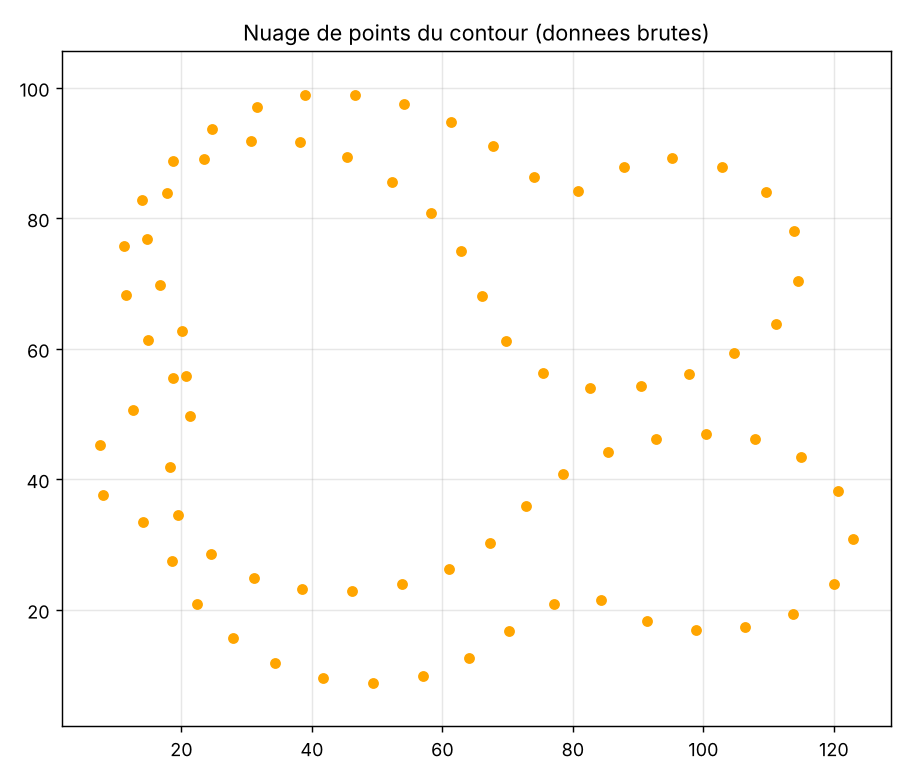
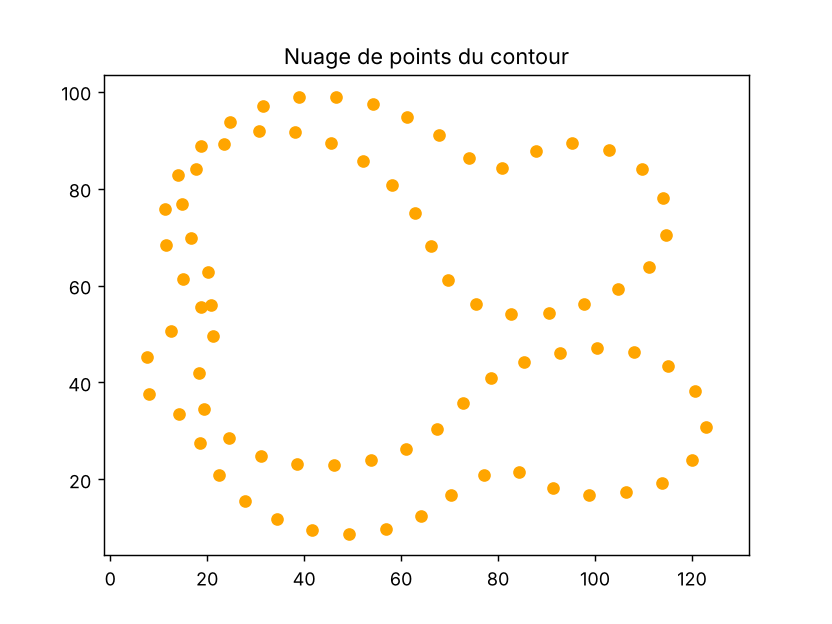
Simplification du code

diff --git a/bspline.py b/bspline.py
@@ -1,225 +1,66 @@
 """
-TP - Reconstruction d'un contour par B-spline
-=============================================
+TP - Reconstruction d'un contour par B-spline (fait main, sans librairie B-spline)
 
-Objectif : a partir d'un ensemble de points (le contour d'une piece),
-construire "a la main" une courbe B-spline, SANS utiliser de fonction
-magique type scipy.interpolate.BSpline.
-
-Tout repose sur UNE seule formule (la recursion de Cox - de Boor) qui
-definit les fonctions de base B-spline. On programme cette formule, puis
-la courbe est simplement une somme ponderee des points de controle.
-
-                 n
-      C(t)  =   somme   N_{i,p}(t) * P_i
-                i=0
-
-ou :
-  - P_i          : les points de controle (ici = les points du contour)
-  - p            : le degre de la courbe (1, 2, 3, 4...)
-  - N_{i,p}(t)   : les "fonctions de base", calculees par Cox - de Boor
-  - t            : le parametre qui parcourt la courbe
-
-Seules numpy (tableaux) et matplotlib (affichage) sont utilisees.
-Aucune fonction de B-spline toute faite.
+Courbe B-spline :   C(t) = somme_i  N(i, p, t) * P_i
+  P_i : points de controle (ici = les points du contour)
+  p   : degre
+  N   : fonctions de base, calculees par la formule de Cox - de Boor
 """
-
 import numpy as np
 import matplotlib.pyplot as plt
 
 
-# ---------------------------------------------------------------------------
-# 1) LECTURE DES POINTS DU CONTOUR
-# ---------------------------------------------------------------------------
-def lire_points(chemin):
-    """
-    Lit un fichier (CSV ou TXT) de la forme :  index , x , y
-    et renvoie deux listes numpy : les x et les y.
-
-    Le separateur peut etre ',' (csv) ou ';' (txt) : on gere les deux.
-    La premiere ligne est l'entete (index,x,y) : on la saute.
-    """
-    xs, ys = [], []
-    with open(chemin, "r") as f:
-        for ligne in f:
-            ligne = ligne.strip()
-            if ligne == "":
-                continue
-            # on remplace ';' par ',' pour traiter les deux formats pareil
-            ligne = ligne.replace(";", ",")
-            colonnes = ligne.split(",")
-            # on saute l'entete (ligne qui ne commence pas par un nombre)
-            try:
-                _index = int(colonnes[0])
-            except ValueError:
-                continue
-            xs.append(float(colonnes[1]))
-            ys.append(float(colonnes[2]))
-    return np.array(xs), np.array(ys)
+def noeuds(n, p):
+    """Vecteur de noeuds clampe : p+1 zeros, valeurs regulieres, p+1 uns.
+    n = nombre de points de controle."""
+    milieu = np.linspace(0, 1, n - p + 1)[1:-1]
+    return np.concatenate([np.zeros(p + 1), milieu, np.ones(p + 1)])
 
 
-# ---------------------------------------------------------------------------
-# 2) LE VECTEUR DE NOEUDS (knot vector)
-# ---------------------------------------------------------------------------
-def vecteur_noeuds(n, p):
-    """
-    Construit un vecteur de noeuds "clampe" (ouvert uniforme).
-
-    n  : indice du dernier point de controle (il y a donc n+1 points)
-    p  : degre de la courbe
-
-    Regle (la plus simple et la plus classique) :
-      - p+1 noeuds valent 0 au debut   -> la courbe PART du 1er point
-      - p+1 noeuds valent 1 a la fin    -> la courbe ARRIVE au dernier point
-      - les noeuds du milieu sont repartis regulierement entre 0 et 1
-
-    Longueur totale du vecteur de noeuds : n + p + 2
-    """
-    m = n + p + 1               # indice du dernier noeud
-    noeuds = np.zeros(m + 1)    # il y a m+1 noeuds au total
-
-    for i in range(m + 1):
-        if i < p + 1:
-            noeuds[i] = 0.0                      # debut "colle" a 0
-        elif i > n:
-            noeuds[i] = 1.0                      # fin "collee" a 1
-        else:
-            noeuds[i] = (i - p) / (n - p + 1)    # milieu regulier
-    return noeuds
-
-
-# ---------------------------------------------------------------------------
-# 3) LES FONCTIONS DE BASE : recursion de Cox - de Boor  (LE COEUR DU TP)
-# ---------------------------------------------------------------------------
-def base_bspline(i, p, t, noeuds):
-    """
-    Calcule la valeur de la fonction de base N_{i,p}(t).
-
-    C'est la DEFINITION meme d'une B-spline, programmee directement.
-
-    --- Cas de base (degre 0) ---
-      N_{i,0}(t) = 1 si  noeuds[i] <= t < noeuds[i+1]
-                 = 0 sinon
-      (c'est une "marche" : vaut 1 sur un seul intervalle)
-
-    --- Cas recursif (degre p) ---
-      N_{i,p}(t) =  (t - u_i)/(u_{i+p} - u_i)       * N_{i,p-1}(t)
-                 + (u_{i+p+1} - t)/(u_{i+p+1} - u_{i+1}) * N_{i+1,p-1}(t)
-
-    Un terme dont le denominateur est 0 est simplement ignore (= 0),
-    c'est la convention habituelle qui evite les divisions par zero.
-    """
-    # --- degre 0 : la marche ---
+def N(i, p, t, u):
+    """Fonction de base B-spline (formule de Cox - de Boor)."""
     if p == 0:
-        # Remarque : on inclut la borne de droite au tout dernier intervalle
-        # pour que t = 1 (le dernier point) soit bien pris en compte.
-        if (noeuds[i] <= t < noeuds[i + 1]) or \
-           (t == noeuds[-1] and noeuds[i] <= t <= noeuds[i + 1]):
-            return 1.0
-        return 0.0
-
-    # --- degre p : on combine deux fonctions de degre p-1 ---
-    gauche = 0.0
-    denom_gauche = noeuds[i + p] - noeuds[i]
-    if denom_gauche > 0:
-        gauche = (t - noeuds[i]) / denom_gauche * base_bspline(i, p - 1, t, noeuds)
-
-    droite = 0.0
-    denom_droite = noeuds[i + p + 1] - noeuds[i + 1]
-    if denom_droite > 0:
-        droite = (noeuds[i + p + 1] - t) / denom_droite * base_bspline(i + 1, p - 1, t, noeuds)
-
-    return gauche + droite
+        return 1.0 if u[i] <= t < u[i + 1] else 0.0
+    a = 0.0
+    if u[i + p] != u[i]:
+        a = (t - u[i]) / (u[i + p] - u[i]) * N(i, p - 1, t, u)
+    b = 0.0
+    if u[i + p + 1] != u[i + 1]:
+        b = (u[i + p + 1] - t) / (u[i + p + 1] - u[i + 1]) * N(i + 1, p - 1, t, u)
+    return a + b
 
 
-# ---------------------------------------------------------------------------
-# 4) EVALUATION DE LA COURBE B-SPLINE EN UN POINT
-# ---------------------------------------------------------------------------
-def point_courbe(t, px, py, p, noeuds):
-    """
-    Calcule le point C(t) = somme_i  N_{i,p}(t) * P_i
-
-    px, py : coordonnees des points de controle
-    Renvoie (x, y) : le point de la courbe pour le parametre t.
-    """
-    n = len(px) - 1
-    x = 0.0
-    y = 0.0
-    for i in range(n + 1):
-        b = base_bspline(i, p, t, noeuds)   # poids du point de controle i
-        x += b * px[i]
-        y += b * py[i]
-    return x, y
+def bspline(P, p, nb=400):
+    """Points de la courbe : pour chaque t, somme des P_i ponderes par N."""
+    n = len(P)
+    u = noeuds(n, p)
+    courbe = []
+    for t in np.linspace(0, 1, nb, endpoint=False):
+        courbe.append(sum(N(i, p, t, u) * P[i] for i in range(n)))
+    courbe.append(P[-1])  # en t = 1, la courbe clampee arrive sur le dernier point
+    return np.array(courbe)
 
 
-def courbe_bspline(px, py, p, nb_points=300):
-    """
-    Construit toute la courbe B-spline en echantillonnant le parametre t
-    entre 0 et 1 (nb_points valeurs).
+# 1) Lecture des points (colonnes : index, x, y)
+P = np.loadtxt("data/points_contour.csv", delimiter=",", skiprows=1)[:, 1:]
 
-    Renvoie deux tableaux (cx, cy) : la courbe reconstruite.
-    """
-    n = len(px) - 1
-    noeuds = vecteur_noeuds(n, p)
+# 2) Nuage de points
+plt.plot(P[:, 0], P[:, 1], "o", color="orange")
+plt.title("Nuage de points du contour")
+plt.axis("equal")
+plt.savefig("nuage_points.png", dpi=130)
 
-    ts = np.linspace(0.0, 1.0, nb_points)   # t de 0 a 1
-    cx, cy = [], []
-    for t in ts:
-        x, y = point_courbe(t, px, py, p, noeuds)
-        cx.append(x)
-        cy.append(y)
-    return np.array(cx), np.array(cy)
+# 3) Contour ferme : on recopie le premier point a la fin
+P = np.vstack([P, P[0]])
 
-
-# ---------------------------------------------------------------------------
-# 5) PROGRAMME PRINCIPAL : lire, construire, afficher, comparer
-# ---------------------------------------------------------------------------
-if __name__ == "__main__":
-
-    # --- lecture des points du contour ---
-    px, py = lire_points("data/points_contour.csv")
-    print("Nombre de points du contour :", len(px))
-
-    # --- TP section 4 : afficher d'abord les points sous forme de nuage ---
-    plt.figure(figsize=(7, 6))
-    plt.plot(px, py, "o", color="orange", markersize=5)
-    plt.title("Nuage de points du contour (donnees brutes)")
-    plt.axis("equal")
-    plt.grid(True, alpha=0.3)
-    plt.tight_layout()
-    plt.savefig("nuage_points.png", dpi=130)
-    print("Figure enregistree : nuage_points.png")
-
-    # Pour un contour FERME : on recopie le premier point a la fin
-    # (sinon la courbe clampee s'arrete au dernier point et ne "boucle" pas).
-    px = np.append(px, px[0])
-    py = np.append(py, py[0])
-
-    # --- on teste plusieurs degres, comme demande dans le TP (p=1,2,3,4) ---
-    degres = [1, 2, 3, 4]
-
-    fig, axes = plt.subplots(2, 2, figsize=(13, 11))
-    axes = axes.ravel()
-
-    for ax, p in zip(axes, degres):
-        cx, cy = courbe_bspline(px, py, p, nb_points=400)
-
-        # points du contour / de controle (ici ce sont les memes points)
-        ax.plot(px, py, "o--", color="lightgray", markerfacecolor="orange",
-                markersize=5, linewidth=1, label="points de controle (= contour)")
-
-        # la courbe B-spline reconstruite
-        ax.plot(cx, cy, "-", color="crimson", linewidth=2.2,
-                label="courbe B-spline reconstruite")
-
-        ax.set_title("Degre p = %d" % p)
-        ax.axis("equal")
-        ax.legend(fontsize=8, loc="upper right")
-        ax.grid(True, alpha=0.3)
-
-    fig.suptitle("Reconstruction d'un contour par B-spline (Cox - de Boor, fait main)",
-                 fontsize=14)
-    fig.tight_layout(rect=[0, 0, 1, 0.97])
-    fig.savefig("resultat_bspline.png", dpi=130)
-    print("Figure enregistree : resultat_bspline.png")
-    # plt.show()   # decommenter pour afficher dans une fenetre
+# 4) B-spline pour les degres 1, 2, 3, 4
+fig, axes = plt.subplots(2, 2, figsize=(12, 10))
+for ax, p in zip(axes.ravel(), [1, 2, 3, 4]):
+    C = bspline(P, p)
+    ax.plot(P[:, 0], P[:, 1], "o--", color="orange", label="points de controle (contour)")
+    ax.plot(C[:, 0], C[:, 1], "r-", linewidth=2, label="courbe B-spline")
+    ax.set_title(f"Degre p = {p}")
+    ax.axis("equal")
+    ax.legend(fontsize=8)
+fig.savefig("resultat_bspline.png", dpi=130)
+plt.show()

diff --git a/README.md b/README.md
@@ -42,19 +42,19 @@ Les poids changent le long de la courbe : c'est ce qui la rend lisse.
 
 ## Les 4 briques du code (`bspline.py`)
 
-1. **`lire_points`** — lit le fichier `index,x,y` (gère `,` et `;`).
+1. **Lecture** — `np.loadtxt` lit le fichier `index,x,y` (on garde x et y).
 
-2. **`vecteur_noeuds`** — construit le *vecteur de nœuds* « clampé » : `p+1`
+2. **`noeuds`** — construit le *vecteur de nœuds* « clampé » : `p+1`
    zéros au début, `p+1` uns à la fin, le reste réparti régulièrement. Résultat :
    la courbe **part du premier point** et **arrive au dernier**.
 
-3. **`base_bspline`** — **le cœur du TP**. C'est la définition d'une B-spline
+3. **`N`** — **le cœur du TP**. C'est la définition d'une B-spline
    programmée directement :
    - degré 0 : une « marche » qui vaut 1 sur un seul intervalle de nœuds, 0 ailleurs ;
    - degré p : combinaison de deux fonctions de degré `p-1` (formule de Cox – de Boor).
      Un dénominateur nul est ignoré (convention habituelle, évite la division par zéro).
 
-4. **`point_courbe` / `courbe_bspline`** — pour chaque `t`, on fait la somme
+4. **`bspline`** — pour chaque `t`, on fait la somme
    `Σ N_{i,p}(t) · P_i`, et on échantillonne `t` de 0 à 1 pour tracer toute la courbe.
 
 ## Ce qu'on observe
@@ -64,7 +64,7 @@ Les poids changent le long de la courbe : c'est ce qui la rend lisse.
   mais garde la forme globale. C'est le comportement attendu d'une B-spline.
 
 > Contour **fermé** : dans `bspline.py`, on recopie le premier point à la fin
-> (`px = np.append(px, px[0])`) pour que la courbe boucle.
+> (`P = np.vstack([P, P[0]])`) pour que la courbe boucle.
 
 ## Fichiers
 
